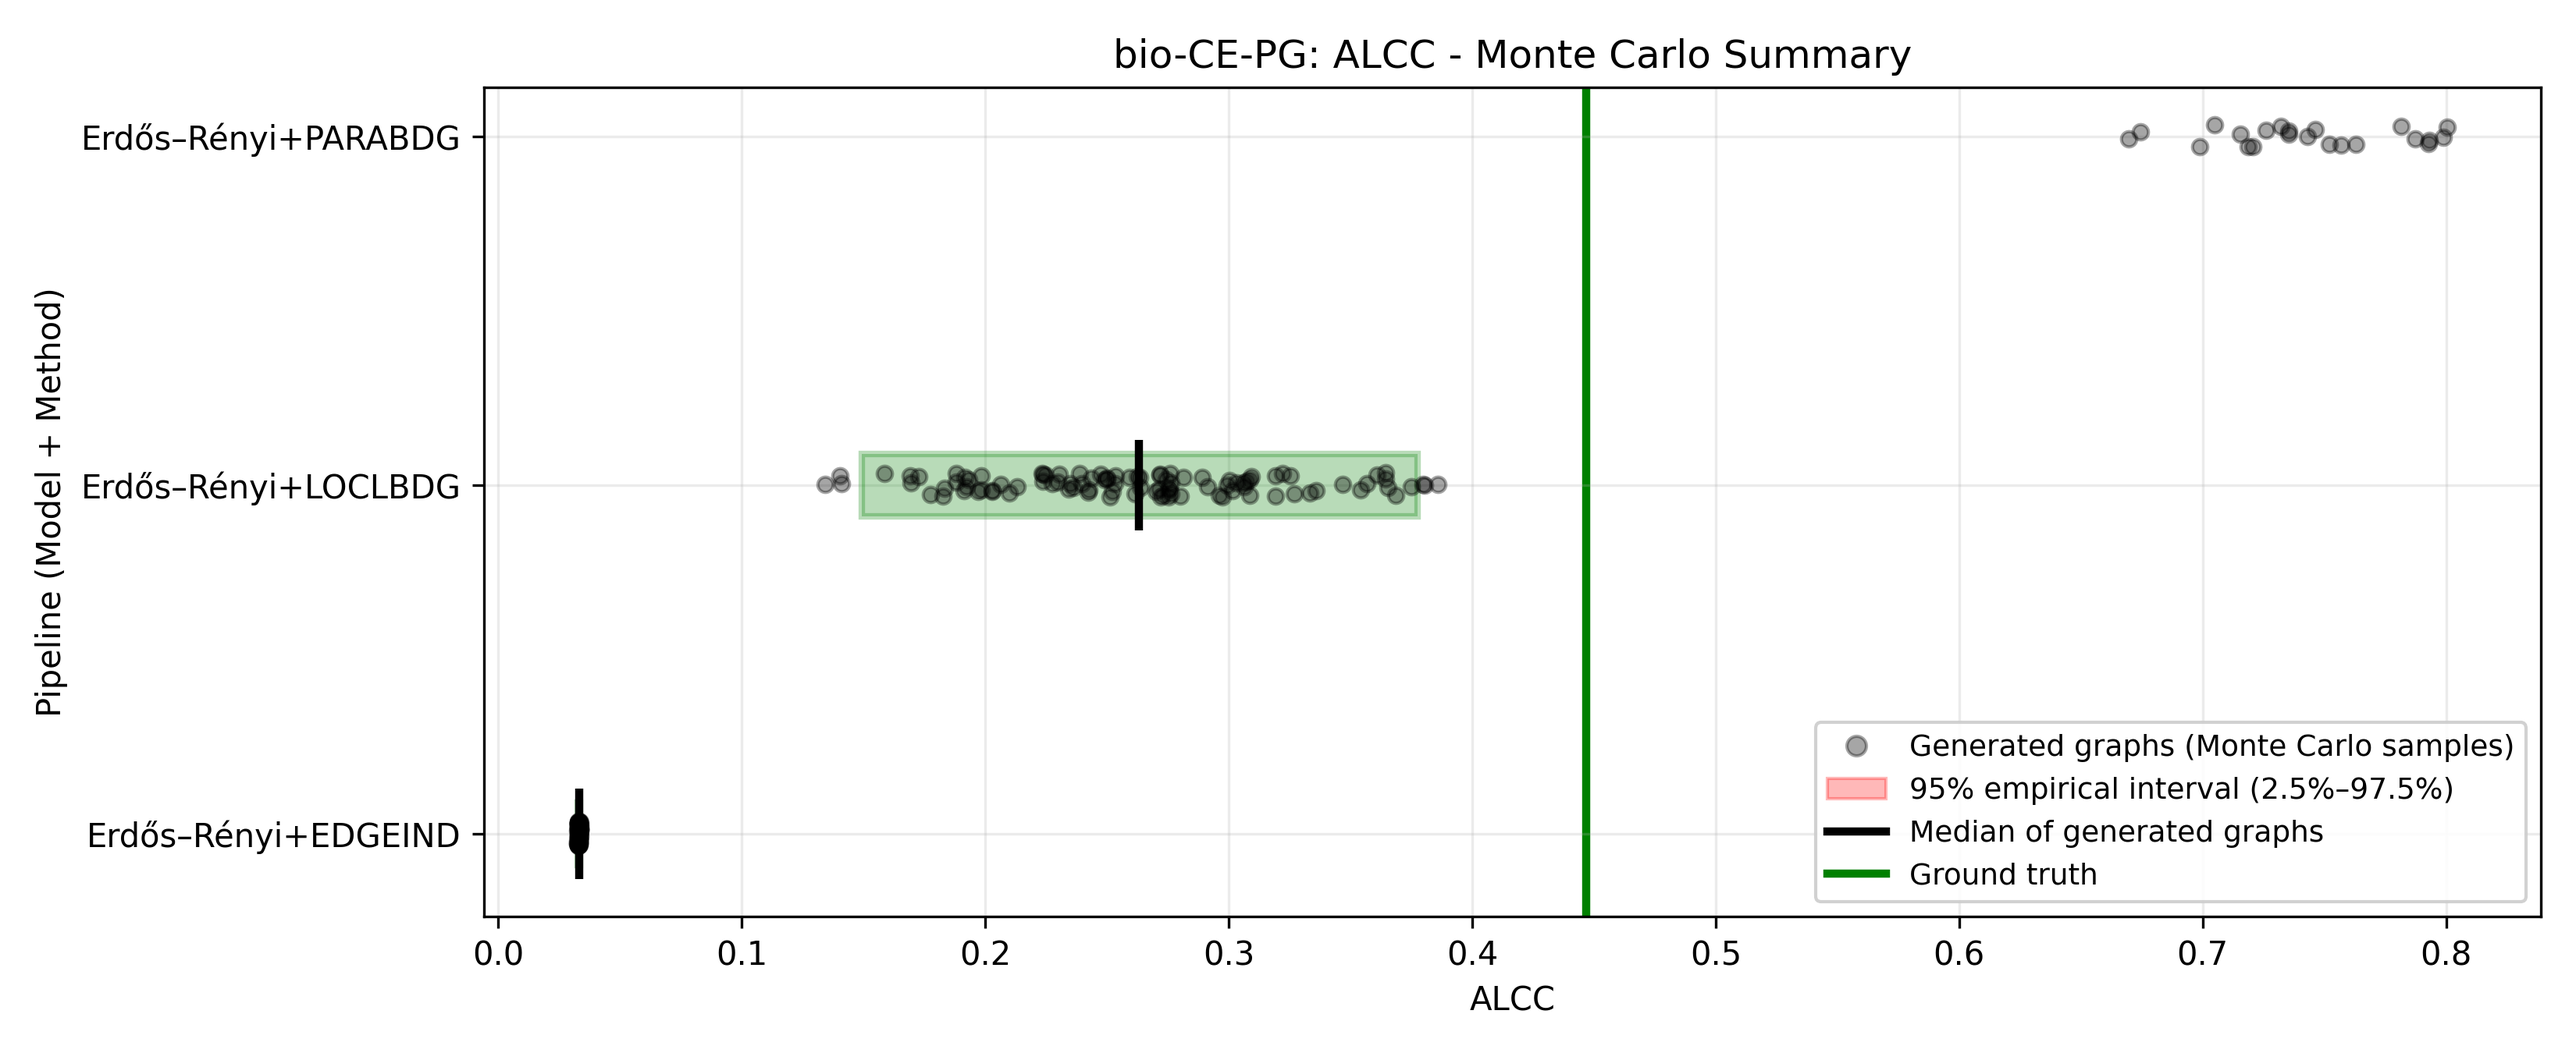
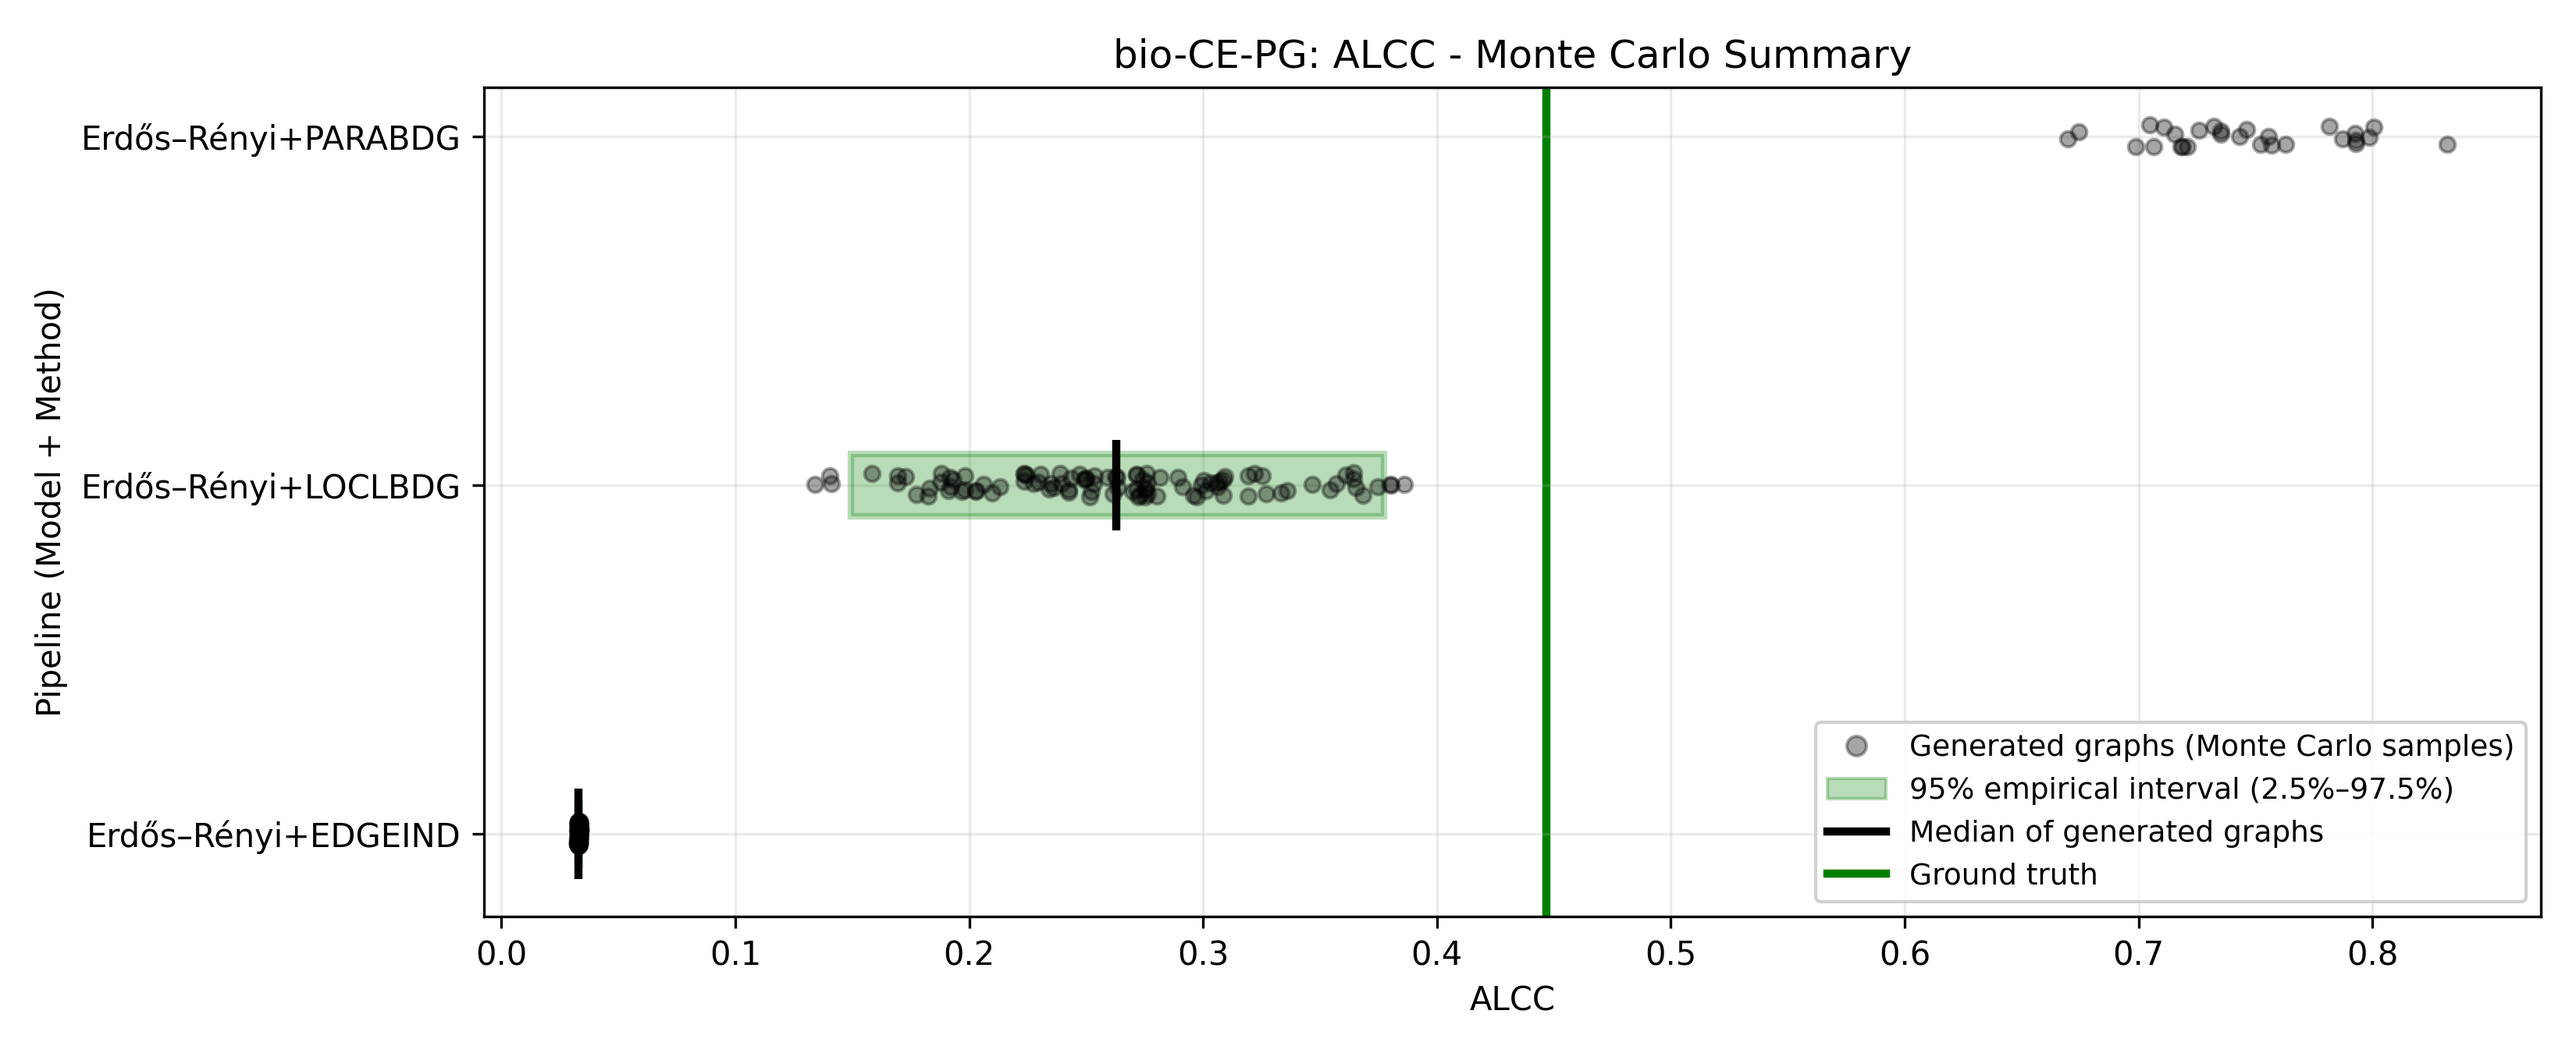
fixed legend

diff --git a/cluster_analysis/plot_analysis.py b/cluster_analysis/plot_analysis.py
@@ -253,8 +253,8 @@ def plot_monte_carlo_summary(
         ),
         Rectangle(
             (0, 0), 1, 1,
-            facecolor="red",
-            edgecolor="red",
+            facecolor="green",
+            edgecolor="green",
             alpha=0.28,
             label="95% empirical interval (2.5%–97.5%)",
         ),
